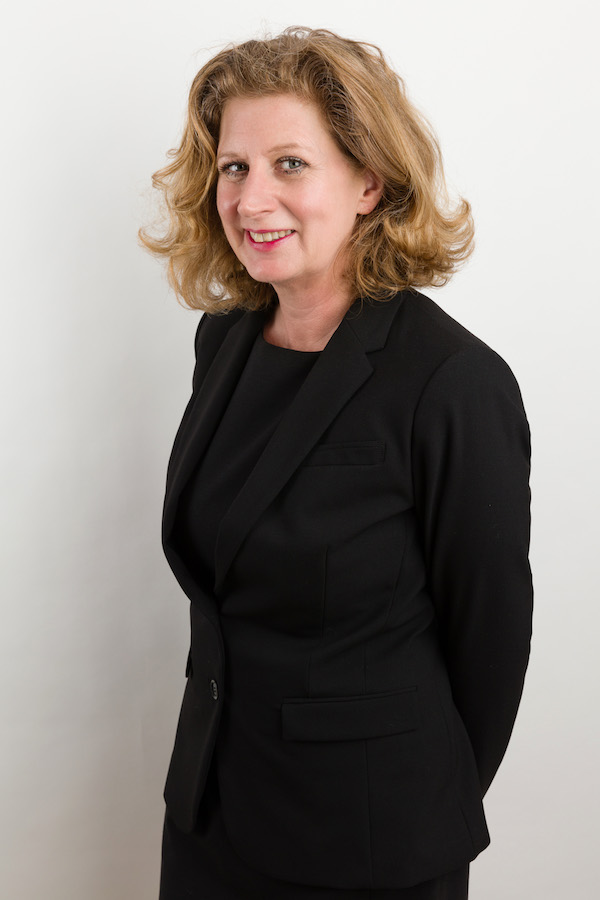
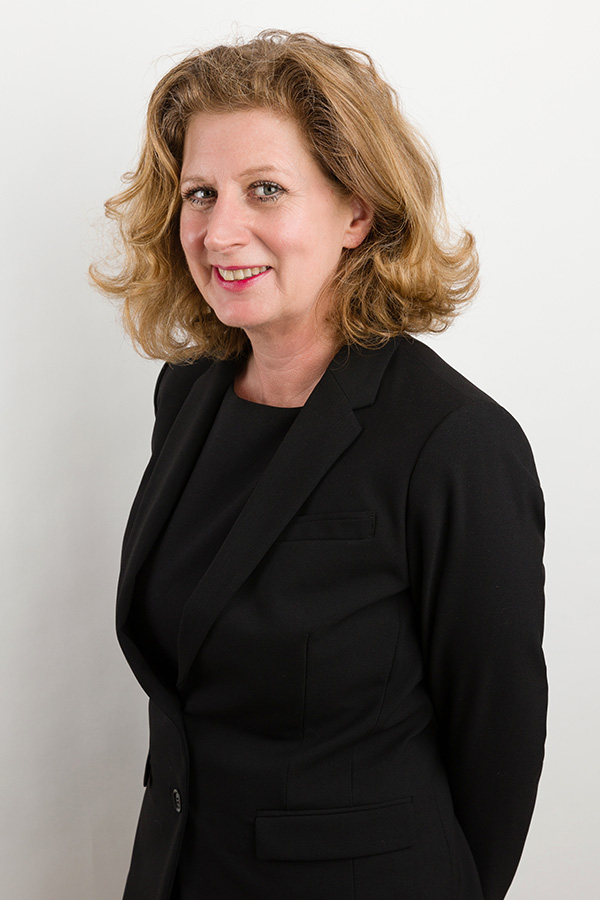
Adjust lesley photo/add linked in link (#35)
* adjust photo

* add thumbs and linked in link

* move if statement

* merge with master

diff --git a/docs/_includes/profile.html b/docs/_includes/profile.html
@@ -30,9 +30,20 @@
     {% if profile.contact %}
     <ul class="team-member__contact-details">
       {% for contactMethod in profile.contact %}
-      <li><span class="team-member__contact-method">{{contactMethod[0]}}:</span> {{contactMethod[1]}}</li>
+      <li>
+          <span class="team-member__contact-method">{{contactMethod[0]}}:</span> {{contactMethod[1]}}
+      </li>
       {% endfor %}
     </ul>
+    {% endif %}
+
+    {% if profile.linkedin %}
+    <p>
+      <a href="{{profile.linkedin}}" target="_blank" class="team-member__link">
+        <span class="icon-linkedin"></span>
+        LinkedIn
+      </a>
+    </p>
     {% endif %}
 
     {% if profile.vcard %}

diff --git a/docs/_includes/footer.html b/docs/_includes/footer.html
@@ -30,7 +30,7 @@
       <div class="grid footer__meta">
         <div class="col col-md-8 flex--self-end-md">
           © 2018 North Star Law <br>
-          <a href="{{site.baseurl}}/legal-and-regulatory.html" class="link-gold">
+          <a href="{{site.baseurl}}/legal-and-regulatory.html">
             Legal and Regulatory Information
           </a>
         </div>

diff --git a/docs/_sass/_team-member.scss b/docs/_sass/_team-member.scss
@@ -17,6 +17,19 @@
     }
   }
 
+  &__link {
+    color: color("blue");
+    text-decoration: none;
+
+    @include hover-focus {
+      color: color("gold");
+    }
+
+    [class~="icon"] {
+      float: left;
+    }
+  }
+
   &__contact-details {
     list-style: none;
     padding: 0;

diff --git a/docs/_sass/_footer.scss b/docs/_sass/_footer.scss
@@ -14,16 +14,6 @@
     }
   }
 
-  .link-gold {
-    color: color("white");
-    text-decoration: underline;
-
-    &:hover,
-    &:focus {
-      text-decoration: none;
-    }
-  }
-
   &__first-row {
     margin-bottom: 50px;
   }

diff --git a/docs/_sass/_icons.scss b/docs/_sass/_icons.scss
@@ -47,3 +47,6 @@
   content: $icon-minus;
 }
 
+.icon-linkedin:before {
+  content: "\eac9";
+}
